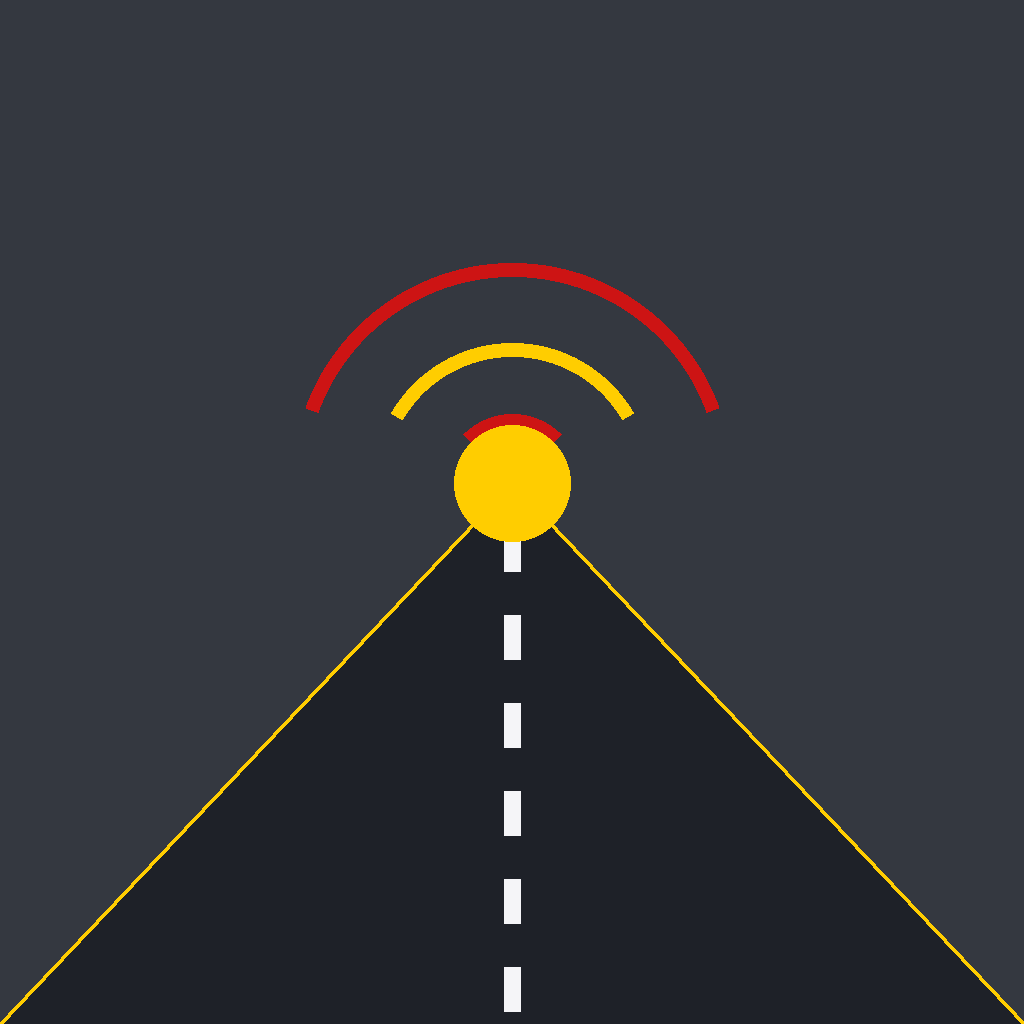
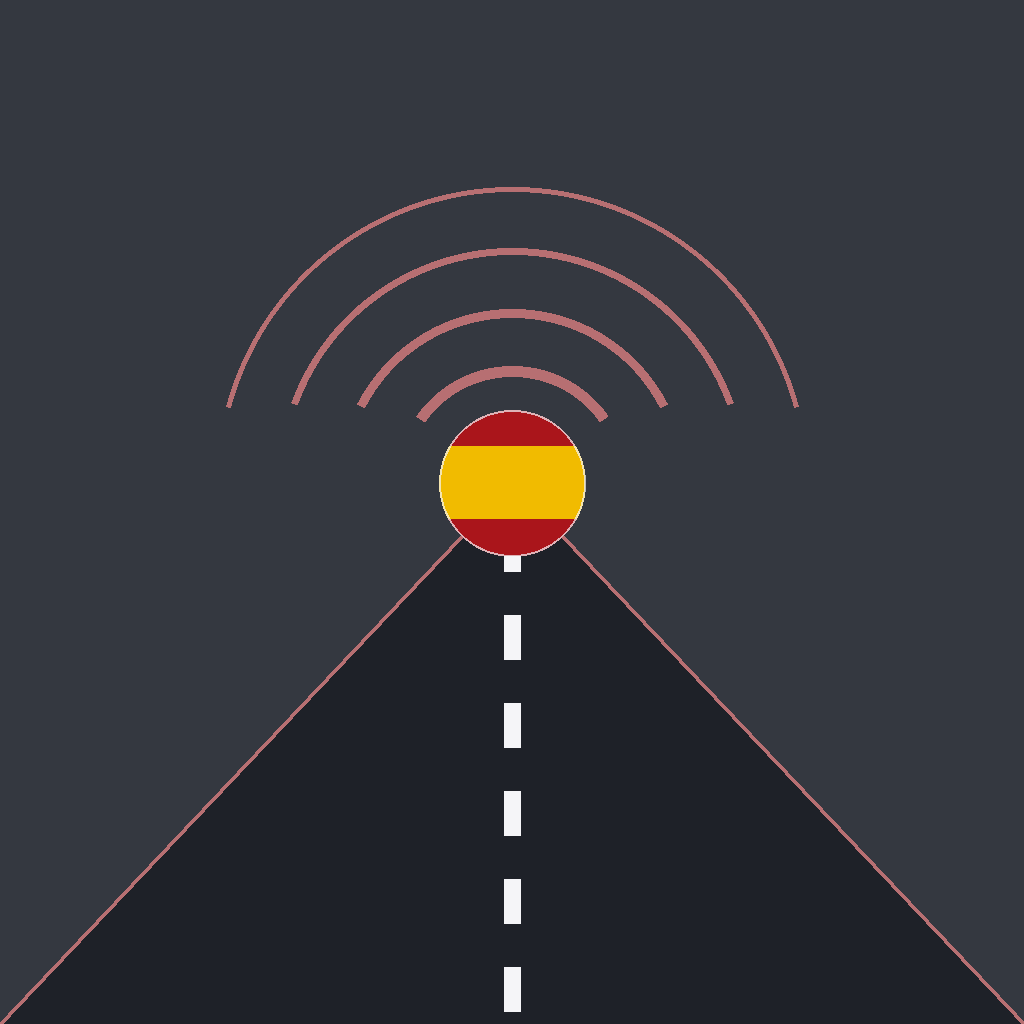
Nouvelle icône (drapeau + ondes désaturées), voix iOS : meilleure voix installée, paywall 1800 phrases, « traduis »
Avec seulement la langue, iOS prenait la voix compacte par défaut et
ignorait les voix Améliorées/Premium téléchargées dans Réglages : on liste
les voix installées et on désigne explicitement la meilleure.

Claude-Session: https://claude.ai/code/session_016o5ttJgVXCSVVzozRGagfj

diff --git a/www/js/app.js b/www/js/app.js
@@ -328,7 +328,7 @@ function buildIntroSegments(){
 
   let pathText;
   if(platform === 'ios'){
-    pathText = "Tu es sur iPhone. Voici le chemin : ouvre l'application Réglages. Va dans Accessibilité. Puis Contenu énoncé. Puis Voix. Puis Français. Et télécharge une voix marquée Améliorée, ou Premium, si elle est proposée. Une fois téléchargée, elle sera automatiquement utilisée ici, sans rien à faire de plus.";
+    pathText = "Tu es sur iPhone. Voici le chemin : ouvre l'application Réglages. Va dans Accessibilité. Puis Contenu énoncé. Puis Voix. Puis Français. Et télécharge une voix marquée Améliorée, ou Premium, si elle est proposée. Fais la même chose dans Espagnol, Espagne, pour la voix espagnole. Une fois téléchargées, ces voix seront automatiquement utilisées ici, sans rien à faire de plus.";
   } else if(platform === 'android'){
     pathText = "Tu es sur Android. Voici le chemin, qui peut varier légèrement selon la marque de ton téléphone : ouvre les Paramètres. Va dans Système, ou Paramètres généraux. Puis Langues et saisie. Puis Synthèse vocale, ou Text-to-speech. Choisis le moteur Google. Installe les données vocales en français. Et choisis, si elle est proposée, une voix Réseau plutôt qu'une voix Compacte, pour un rendu plus naturel.";
   } else {
@@ -388,7 +388,7 @@ function buildEvalSegments(mi, anchor, isFinal, evalLabel){
   chosen.forEach((p,i)=>{
     const repeatMs = Math.max(2200, p.es.length*80) + 3000; // même formule que le Test 2
     const ex = {idx:i, total: chosen.length};
-    segs.push(S(p.fr, 'fr', 1, `${evalLabel} — traduce en espagnol`, CTX, 'headphones', false, p.fr, '···', ex));
+    segs.push(S(p.fr, 'fr', 1, `${evalLabel} — traduis en espagnol`, CTX, 'headphones', false, p.fr, '···', ex));
     segs.push(W(repeatMs, `${evalLabel} — à toi de répondre`, SPK, 'repeat', true, p.fr, '···', ex));
     segs.push(S(p.es, 'es', 0.85, `${evalLabel} — réponse`, TGT, 'speaker', false, p.fr, p.es, ex));
     segs.push(W(400 + 2000, `${evalLabel} — réponse`, TGT, 'speaker', false, p.fr, p.es, ex)); // même écart que le Test 2 (+2s)
@@ -447,7 +447,7 @@ function buildLessonSegments(mi, li){
   shuffled.forEach((p,i)=>{
     const repeatMs = Math.max(2200, p.es.length*80) + 3000;
     const ex = {idx:i, total: shuffled.length};
-    segs.push(S(p.fr, 'fr', 1, 'Test 1 — traduce en espagnol', CTX, 'headphones', false, p.fr, '···', ex));
+    segs.push(S(p.fr, 'fr', 1, 'Test 1 — traduis en espagnol', CTX, 'headphones', false, p.fr, '···', ex));
     segs.push(W(repeatMs, 'Test 1 — à toi de répondre', SPK, 'repeat', true, p.fr, '···', ex));
     segs.push(S(p.es, 'es', 0.85, 'Test 1 — réponse', TGT, 'speaker', false, p.fr, p.es, ex));
     segs.push(W(400 + 3000, 'Test 1 — réponse', TGT, 'speaker', false, p.fr, p.es, ex));
@@ -461,7 +461,7 @@ function buildLessonSegments(mi, li){
   lesson.phrases.forEach((p,i)=>{
     const repeatMs = Math.max(2200, p.es.length*80) + 3000;
     const ex = {idx:i, total: lesson.phrases.length};
-    segs.push(S(p.fr, 'fr', 1, 'Test 2 — traduce en espagnol', CTX, 'headphones', false, p.fr, '···', ex));
+    segs.push(S(p.fr, 'fr', 1, 'Test 2 — traduis en espagnol', CTX, 'headphones', false, p.fr, '···', ex));
     segs.push(W(repeatMs, 'Test 2 — à toi de répondre', SPK, 'repeat', true, p.fr, '···', ex));
     segs.push(S(p.es, 'es', 0.85, 'Test 2 — réponse', TGT, 'speaker', false, p.fr, p.es, ex));
     segs.push(W(400 + 2000, 'Test 2 — réponse', TGT, 'speaker', false, p.fr, p.es, ex));
@@ -575,6 +575,45 @@ function hasWebSpeech(){
 function getTTSPlugin(){
   return (window.Capacitor && window.Capacitor.Plugins && window.Capacitor.Plugins.TextToSpeech) || null;
 }
+/* ---------- choix explicite de la meilleure voix iOS/Android ----------
+   Quand on ne passe que la langue au plugin, iOS utilise la voix par défaut
+   de base (compacte, robotique) et IGNORE la voix téléchargée dans Réglages >
+   Accessibilité > Contenu énoncé. On liste donc les voix installées et on
+   désigne nous-mêmes la meilleure : Premium > Améliorée > standard (jamais
+   les voix "fantaisie"). Liste relue au retour au premier plan, pour qu'une
+   voix téléchargée entre-temps soit prise en compte sans relancer l'app. */
+let nativeVoiceIdx = {};
+let nativeVoicesLoaded = false;
+function nativeVoiceScore(v){
+  const id = ((v.voiceURI||'') + ' ' + (v.name||'')).toLowerCase();
+  if(id.includes('eloquence') || id.includes('speech.synthesis.voice') || id.includes('novelty')) return -100;
+  let s = 0;
+  if(id.includes('premium')) s += 30;
+  else if(id.includes('enhanced') || id.includes('amélior') || id.includes('network') || id.includes('réseau')) s += 20;
+  if(id.includes('compact')) s -= 5;
+  return s;
+}
+function bestNativeVoice(list, exact, prefix){
+  const norm = v=>(v.lang||'').toLowerCase().replace('_','-');
+  const all = list.map((v,i)=>({v,i}));
+  let c = all.filter(o=>norm(o.v) === exact);
+  if(!c.length) c = all.filter(o=>norm(o.v).startsWith(prefix));
+  if(!c.length) return -1;
+  c.sort((a,b)=>nativeVoiceScore(b.v) - nativeVoiceScore(a.v));
+  return nativeVoiceScore(c[0].v) < -50 ? -1 : c[0].i;
+}
+async function loadNativeVoices(){
+  if(nativeVoicesLoaded) return;
+  nativeVoicesLoaded = true;
+  const tts = getTTSPlugin();
+  if(!tts || !tts.getSupportedVoices) return;
+  try{
+    const r = await tts.getSupportedVoices();
+    const list = (r && r.voices) || [];
+    nativeVoiceIdx = { fr: bestNativeVoice(list, 'fr-fr', 'fr'), tgt: bestNativeVoice(list, 'es-es', 'es') };
+  }catch(e){ nativeVoiceIdx = {}; }
+}
+document.addEventListener('visibilitychange', ()=>{ if(!document.hidden) nativeVoicesLoaded = false; });
 async function cancelSpeech(){
   if(isNativeApp()){
     const tts = getTTSPlugin();
@@ -607,8 +646,12 @@ function speakSeg(seg, token){
     if(isNativeApp()){
       const tts = getTTSPlugin();
       if(!tts){ resolve(); return; }
+      await loadNativeVoices();
+      const opts = { text: seg.text, lang, rate: seg.rate || 1, category: 'ambient' };
+      const vi = nativeVoiceIdx[seg.lang === 'fr' ? 'fr' : 'tgt'];
+      if(typeof vi === 'number' && vi >= 0) opts.voice = vi;
       try{
-        await tts.speak({ text: seg.text, lang, rate: seg.rate || 1, category: 'ambient' });
+        await tts.speak(opts);
       }catch(e){ /* on continue malgré une éventuelle erreur du plugin */ }
       resolve();
       return;

diff --git a/www/index.html b/www/index.html
@@ -95,7 +95,7 @@
   <div id="paywall">
     <div class="paywall-inner">
       <div class="paywall-icon">🔓</div>
-      <div class="paywall-title">Débloque les 600 phrases</div>
+      <div class="paywall-title">Débloque les 1800 phrases</div>
       <div class="paywall-sub">Les premières leçons de chaque niveau sont gratuites (10 pour le niveau 1, 3 pour les suivants). Passe en version complète pour débloquer tous les modules et tous les niveaux disponibles.</div>
       <button class="end-btn primary" id="buyBtn" style="width:100%;padding:16px;font-size:16px;">Débloquer — 9,99&nbsp;€</button>
       <button class="restore-link" id="restoreBtn">Restaurer mes achats</button>
